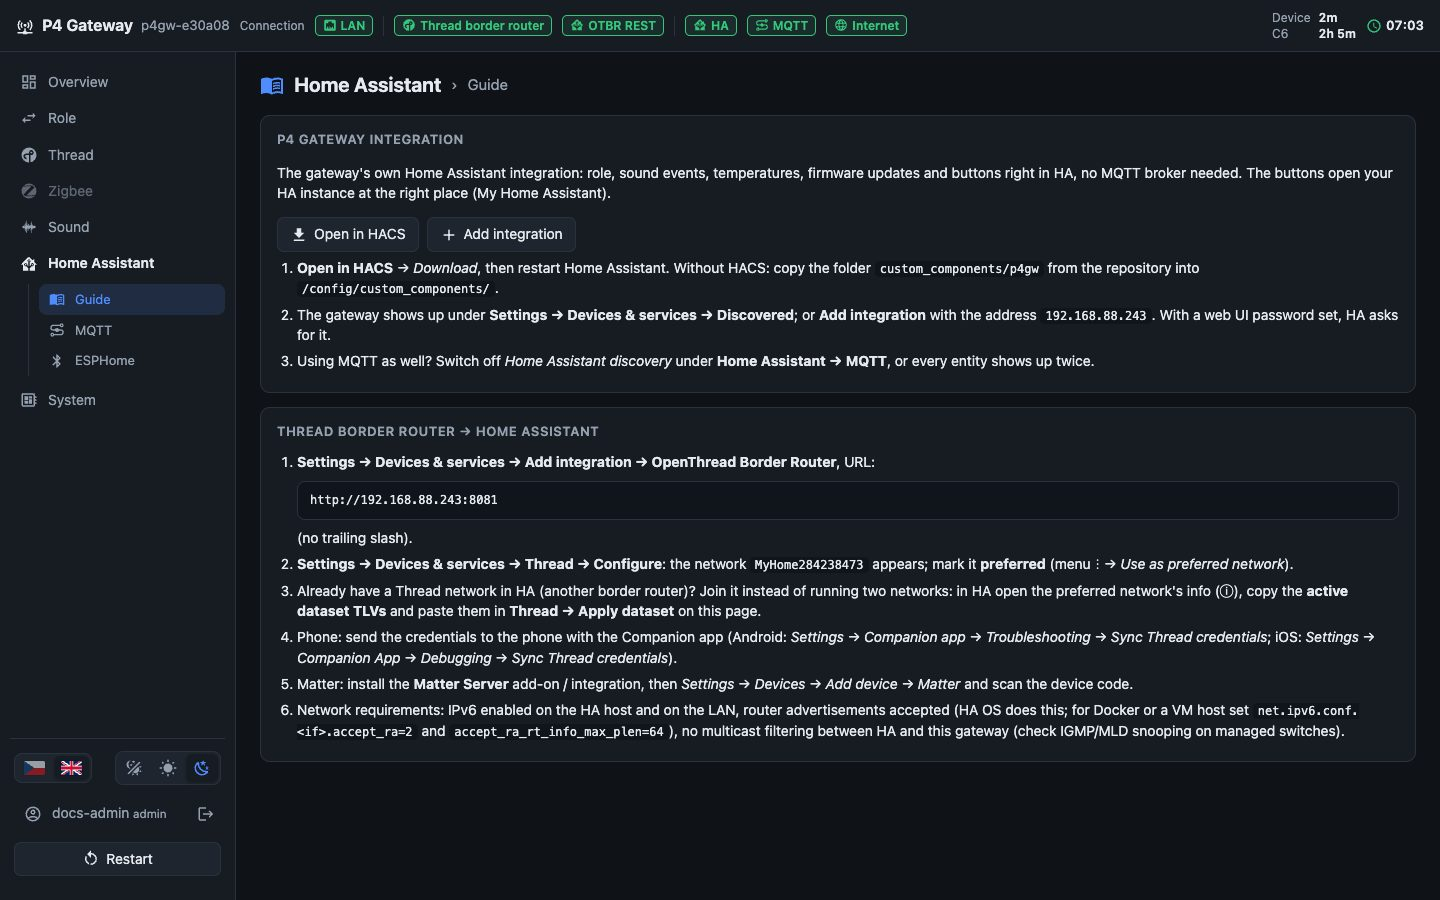
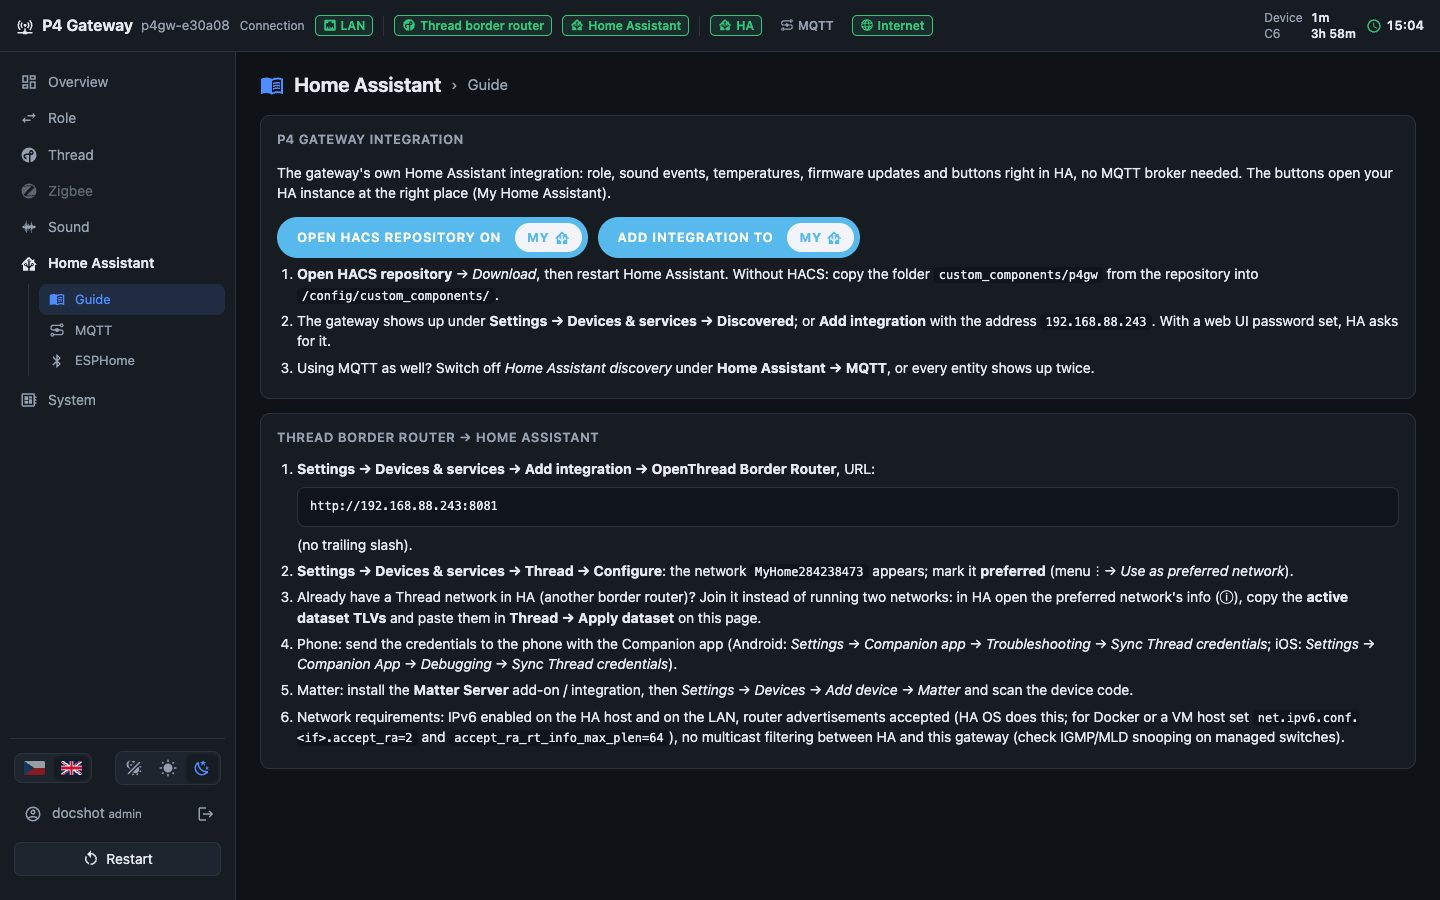
Web UI: HACS and Add integration buttons as My Home Assistant badges
shoot.mjs: P4GW_ROUTES shoots only the listed pages.

diff --git a/documentation/cs/index.html b/documentation/cs/index.html
@@ -129,7 +129,7 @@
 <div class="item"><div class="item-text"><h4>Naučené zvuky</h4><p>Profily se vzorky, prahem a testem.</p></div><div class="item-pic"><a href="../screenshots/sound_learn__3.jpg" class="zoom"><img class="shot" src="../screenshots/sound_learn__3.jpg" alt="LEARNED SOUNDS" width="1156" height="110" loading="lazy"></a></div></div>
 <details><summary>Celá stránka (1)</summary><div class="fulls"><figure><a href="../screenshots/sound_learn.jpg" class="zoom"><img class="shot full" src="../screenshots/sound_learn.jpg" alt="Zvuk › Naučené zvuky" width="1440" height="900" loading="lazy"></a><figcaption>Celá stránka</figcaption></figure></div></details>
 </section><section class="card wide" id="ha-guide"><h3><svg class="mdi" viewBox="0 0 24 24" aria-hidden="true"><path d="M12 21.5C10.65 20.65 8.2 20 6.5 20C4.85 20 3.15 20.3 1.75 21.05C1.65 21.1 1.6 21.1 1.5 21.1C1.25 21.1 1 20.85 1 20.6V6C1.6 5.55 2.25 5.25 3 5C4.11 4.65 5.33 4.5 6.5 4.5C8.45 4.5 10.55 4.9 12 6C13.45 4.9 15.55 4.5 17.5 4.5C18.67 4.5 19.89 4.65 21 5C21.75 5.25 22.4 5.55 23 6V20.6C23 20.85 22.75 21.1 22.5 21.1C22.4 21.1 22.35 21.1 22.25 21.05C20.85 20.3 19.15 20 17.5 20C15.8 20 13.35 20.65 12 21.5M12 8V19.5C13.35 18.65 15.8 18 17.5 18C18.7 18 19.9 18.15 21 18.5V7C19.9 6.65 18.7 6.5 17.5 6.5C15.8 6.5 13.35 7.15 12 8M13 11.5C14.11 10.82 15.6 10.5 17.5 10.5C18.41 10.5 19.26 10.59 20 10.78V9.23C19.13 9.08 18.29 9 17.5 9C15.73 9 14.23 9.28 13 9.84V11.5M17.5 11.67C15.79 11.67 14.29 11.93 13 12.46V14.15C14.11 13.5 15.6 13.16 17.5 13.16C18.54 13.16 19.38 13.24 20 13.4V11.9C19.13 11.74 18.29 11.67 17.5 11.67M20 14.57C19.13 14.41 18.29 14.33 17.5 14.33C15.67 14.33 14.17 14.6 13 15.13V16.82C14.11 16.16 15.6 15.83 17.5 15.83C18.54 15.83 19.38 15.91 20 16.07V14.57Z"/></svg><span>Home Assistant › Návod</span></h3><p>Postup pro Home Assistant se současnou adresou brány; tlačítka na jedno kliknutí pro integraci.</p>
-<div class="item"><div class="item-text"><h4>Integrace P4 Gateway</h4><p>Otevřít v HACS, spustit nastavení.</p></div><div class="item-pic"><a href="../screenshots/ha_guide__1.jpg" class="zoom"><img class="shot" src="../screenshots/ha_guide__1.jpg" alt="P4 GATEWAY INTEGRATION" width="1156" height="278" loading="lazy"></a></div></div>
+<div class="item"><div class="item-text"><h4>Integrace P4 Gateway</h4><p>Otevřít repozitář HACS, přidat integraci (tlačítka My Home Assistant).</p></div><div class="item-pic"><a href="../screenshots/ha_guide__1.jpg" class="zoom"><img class="shot" src="../screenshots/ha_guide__1.jpg" alt="P4 GATEWAY INTEGRATION" width="1156" height="285" loading="lazy"></a></div></div>
 <div class="item"><div class="item-text"><h4>Thread border router → Home Assistant</h4><p>URL integrace OTBR, kroky pro Thread a Matter.</p></div><div class="item-pic"><a href="../screenshots/ha_guide__2.jpg" class="zoom"><img class="shot" src="../screenshots/ha_guide__2.jpg" alt="THREAD BORDER ROUTER → HOME ASSISTANT" width="1156" height="356" loading="lazy"></a></div></div>
 <div class="item"><div class="item-text"><h4>Zigbee koordinátor → Zigbee2MQTT (doporučeno)</h4><p>Konfigurace Zigbee2MQTT.</p></div><div class="item-pic"><a href="../screenshots/ha_guide__zigbee__2.jpg" class="zoom"><img class="shot" src="../screenshots/ha_guide__zigbee__2.jpg" alt="ZIGBEE COORDINATOR → ZIGBEE2MQTT (RECOMMENDED)" width="1156" height="364" loading="lazy"></a><div class="cap">v roli Zigbee koordinátor</div></div></div>
 <details><summary>Celá stránka (2)</summary><div class="fulls"><figure><a href="../screenshots/ha_guide.jpg" class="zoom"><img class="shot full" src="../screenshots/ha_guide.jpg" alt="Home Assistant › Návod" width="1440" height="900" loading="lazy"></a><figcaption>Celá stránka</figcaption></figure><figure><a href="../screenshots/ha_guide__zigbee.jpg" class="zoom"><img class="shot full" src="../screenshots/ha_guide__zigbee.jpg" alt="Home Assistant › Návod" width="1440" height="900" loading="lazy"></a><figcaption>Celá stránka · v roli Zigbee koordinátor</figcaption></figure></div></details>
@@ -227,7 +227,7 @@
 <details><summary>Celá stránka (1)</summary><div class="fulls"><figure><a href="../screenshots/profile.jpg" class="zoom"><img class="shot full" src="../screenshots/profile.jpg" alt="Můj účet" width="1440" height="900" loading="lazy"></a><figcaption>Celá stránka</figcaption></figure></div></details>
 </section>
 <section class="card wide" id="ha"><h3><svg class="mdi" viewBox="0 0 24 24" aria-hidden="true"><path d="M21.8,13H20V21H13V17.67L15.79,14.88L16.5,15C17.66,15 18.6,14.06 18.6,12.9C18.6,11.74 17.66,10.8 16.5,10.8A2.1,2.1 0 0,0 14.4,12.9L14.5,13.61L13,15.13V9.65C13.66,9.29 14.1,8.6 14.1,7.8A2.1,2.1 0 0,0 12,5.7A2.1,2.1 0 0,0 9.9,7.8C9.9,8.6 10.34,9.29 11,9.65V15.13L9.5,13.61L9.6,12.9A2.1,2.1 0 0,0 7.5,10.8A2.1,2.1 0 0,0 5.4,12.9A2.1,2.1 0 0,0 7.5,15L8.21,14.88L11,17.67V21H4V13H2.25C1.83,13 1.42,13 1.42,12.79C1.43,12.57 1.85,12.15 2.28,11.72L11,3C11.33,2.67 11.67,2.33 12,2.33C12.33,2.33 12.67,2.67 13,3L17,7V6H19V9L21.78,11.78C22.18,12.18 22.59,12.59 22.6,12.8C22.6,13 22.2,13 21.8,13M7.5,12A0.9,0.9 0 0,1 8.4,12.9A0.9,0.9 0 0,1 7.5,13.8A0.9,0.9 0 0,1 6.6,12.9A0.9,0.9 0 0,1 7.5,12M16.5,12C17,12 17.4,12.4 17.4,12.9C17.4,13.4 17,13.8 16.5,13.8A0.9,0.9 0 0,1 15.6,12.9A0.9,0.9 0 0,1 16.5,12M12,6.9C12.5,6.9 12.9,7.3 12.9,7.8C12.9,8.3 12.5,8.7 12,8.7C11.5,8.7 11.1,8.3 11.1,7.8C11.1,7.3 11.5,6.9 12,6.9Z"/></svg><span>Home Assistant</span></h3><h3>Integrace P4 Gateway</h3>
-    <ol><li>Instalace: <b>Otevřít v HACS</b> (Home Assistant › Návod) nebo zkopírujte <code>custom_components/p4gw</code> do <code>/config/custom_components/</code>; restartujte Home Assistant.</li>
+    <ol><li>Instalace: <b>Otevřít repozitář HACS</b> (Home Assistant › Návod) nebo zkopírujte <code>custom_components/p4gw</code> do <code>/config/custom_components/</code>; restartujte Home Assistant.</li>
     <li>Brána se objeví v Nastavení › Zařízení a služby › <b>Objeveno</b> (mDNS <code>_p4gw._tcp</code>), nebo ji přidejte: Přidat integraci › P4 Gateway › adresa.</li>
     <li>Když má brána uživatelské účty, integrace chce <b>API token</b>: vytvořte ho v Systém › Správa uživatelů › API tokeny (role správce, nebo uživatel, když integrace nemá restartovat ani aktualizovat) a vložte ho. Token nezávisí na žádném uživateli ani jeho 2FA.</li>
     <li><b>Konfigurovat</b> (volby integrace): pro každé téma, od jaké úrovně se zobrazí trvalé oznámení (vypnuto, jen kritické, varování a kritické, vše).</li></ol>

diff --git a/documentation/en/index.html b/documentation/en/index.html
@@ -129,7 +129,7 @@
 <div class="item"><div class="item-text"><h4>Learned sounds</h4><p>Profiles with samples, threshold and test.</p></div><div class="item-pic"><a href="../screenshots/sound_learn__3.jpg" class="zoom"><img class="shot" src="../screenshots/sound_learn__3.jpg" alt="LEARNED SOUNDS" width="1156" height="110" loading="lazy"></a></div></div>
 <details><summary>Whole page (1)</summary><div class="fulls"><figure><a href="../screenshots/sound_learn.jpg" class="zoom"><img class="shot full" src="../screenshots/sound_learn.jpg" alt="Sound › Learned sounds" width="1440" height="900" loading="lazy"></a><figcaption>Whole page</figcaption></figure></div></details>
 </section><section class="card wide" id="ha-guide"><h3><svg class="mdi" viewBox="0 0 24 24" aria-hidden="true"><path d="M12 21.5C10.65 20.65 8.2 20 6.5 20C4.85 20 3.15 20.3 1.75 21.05C1.65 21.1 1.6 21.1 1.5 21.1C1.25 21.1 1 20.85 1 20.6V6C1.6 5.55 2.25 5.25 3 5C4.11 4.65 5.33 4.5 6.5 4.5C8.45 4.5 10.55 4.9 12 6C13.45 4.9 15.55 4.5 17.5 4.5C18.67 4.5 19.89 4.65 21 5C21.75 5.25 22.4 5.55 23 6V20.6C23 20.85 22.75 21.1 22.5 21.1C22.4 21.1 22.35 21.1 22.25 21.05C20.85 20.3 19.15 20 17.5 20C15.8 20 13.35 20.65 12 21.5M12 8V19.5C13.35 18.65 15.8 18 17.5 18C18.7 18 19.9 18.15 21 18.5V7C19.9 6.65 18.7 6.5 17.5 6.5C15.8 6.5 13.35 7.15 12 8M13 11.5C14.11 10.82 15.6 10.5 17.5 10.5C18.41 10.5 19.26 10.59 20 10.78V9.23C19.13 9.08 18.29 9 17.5 9C15.73 9 14.23 9.28 13 9.84V11.5M17.5 11.67C15.79 11.67 14.29 11.93 13 12.46V14.15C14.11 13.5 15.6 13.16 17.5 13.16C18.54 13.16 19.38 13.24 20 13.4V11.9C19.13 11.74 18.29 11.67 17.5 11.67M20 14.57C19.13 14.41 18.29 14.33 17.5 14.33C15.67 14.33 14.17 14.6 13 15.13V16.82C14.11 16.16 15.6 15.83 17.5 15.83C18.54 15.83 19.38 15.91 20 16.07V14.57Z"/></svg><span>Home Assistant › Guide</span></h3><p>Steps for Home Assistant with the current address of the gateway; one-click buttons for the integration.</p>
-<div class="item"><div class="item-text"><h4>P4 Gateway integration</h4><p>Open in HACS, start the setup.</p></div><div class="item-pic"><a href="../screenshots/ha_guide__1.jpg" class="zoom"><img class="shot" src="../screenshots/ha_guide__1.jpg" alt="P4 GATEWAY INTEGRATION" width="1156" height="278" loading="lazy"></a></div></div>
+<div class="item"><div class="item-text"><h4>P4 Gateway integration</h4><p>Open the HACS repository, add the integration (My Home Assistant buttons).</p></div><div class="item-pic"><a href="../screenshots/ha_guide__1.jpg" class="zoom"><img class="shot" src="../screenshots/ha_guide__1.jpg" alt="P4 GATEWAY INTEGRATION" width="1156" height="285" loading="lazy"></a></div></div>
 <div class="item"><div class="item-text"><h4>Thread border router → Home Assistant</h4><p>OTBR integration URL, Thread and Matter steps.</p></div><div class="item-pic"><a href="../screenshots/ha_guide__2.jpg" class="zoom"><img class="shot" src="../screenshots/ha_guide__2.jpg" alt="THREAD BORDER ROUTER → HOME ASSISTANT" width="1156" height="356" loading="lazy"></a></div></div>
 <div class="item"><div class="item-text"><h4>Zigbee coordinator → Zigbee2MQTT (recommended)</h4><p>Zigbee2MQTT configuration.</p></div><div class="item-pic"><a href="../screenshots/ha_guide__zigbee__2.jpg" class="zoom"><img class="shot" src="../screenshots/ha_guide__zigbee__2.jpg" alt="ZIGBEE COORDINATOR → ZIGBEE2MQTT (RECOMMENDED)" width="1156" height="364" loading="lazy"></a><div class="cap">in the Zigbee coordinator role</div></div></div>
 <details><summary>Whole page (2)</summary><div class="fulls"><figure><a href="../screenshots/ha_guide.jpg" class="zoom"><img class="shot full" src="../screenshots/ha_guide.jpg" alt="Home Assistant › Guide" width="1440" height="900" loading="lazy"></a><figcaption>Whole page</figcaption></figure><figure><a href="../screenshots/ha_guide__zigbee.jpg" class="zoom"><img class="shot full" src="../screenshots/ha_guide__zigbee.jpg" alt="Home Assistant › Guide" width="1440" height="900" loading="lazy"></a><figcaption>Whole page · in the Zigbee coordinator role</figcaption></figure></div></details>
@@ -227,7 +227,7 @@
 <details><summary>Whole page (1)</summary><div class="fulls"><figure><a href="../screenshots/profile.jpg" class="zoom"><img class="shot full" src="../screenshots/profile.jpg" alt="My account" width="1440" height="900" loading="lazy"></a><figcaption>Whole page</figcaption></figure></div></details>
 </section>
 <section class="card wide" id="ha"><h3><svg class="mdi" viewBox="0 0 24 24" aria-hidden="true"><path d="M21.8,13H20V21H13V17.67L15.79,14.88L16.5,15C17.66,15 18.6,14.06 18.6,12.9C18.6,11.74 17.66,10.8 16.5,10.8A2.1,2.1 0 0,0 14.4,12.9L14.5,13.61L13,15.13V9.65C13.66,9.29 14.1,8.6 14.1,7.8A2.1,2.1 0 0,0 12,5.7A2.1,2.1 0 0,0 9.9,7.8C9.9,8.6 10.34,9.29 11,9.65V15.13L9.5,13.61L9.6,12.9A2.1,2.1 0 0,0 7.5,10.8A2.1,2.1 0 0,0 5.4,12.9A2.1,2.1 0 0,0 7.5,15L8.21,14.88L11,17.67V21H4V13H2.25C1.83,13 1.42,13 1.42,12.79C1.43,12.57 1.85,12.15 2.28,11.72L11,3C11.33,2.67 11.67,2.33 12,2.33C12.33,2.33 12.67,2.67 13,3L17,7V6H19V9L21.78,11.78C22.18,12.18 22.59,12.59 22.6,12.8C22.6,13 22.2,13 21.8,13M7.5,12A0.9,0.9 0 0,1 8.4,12.9A0.9,0.9 0 0,1 7.5,13.8A0.9,0.9 0 0,1 6.6,12.9A0.9,0.9 0 0,1 7.5,12M16.5,12C17,12 17.4,12.4 17.4,12.9C17.4,13.4 17,13.8 16.5,13.8A0.9,0.9 0 0,1 15.6,12.9A0.9,0.9 0 0,1 16.5,12M12,6.9C12.5,6.9 12.9,7.3 12.9,7.8C12.9,8.3 12.5,8.7 12,8.7C11.5,8.7 11.1,8.3 11.1,7.8C11.1,7.3 11.5,6.9 12,6.9Z"/></svg><span>Home Assistant</span></h3><h3>P4 Gateway integration</h3>
-    <ol><li>Install: <b>Open in HACS</b> (Home Assistant › Guide) or copy <code>custom_components/p4gw</code> to <code>/config/custom_components/</code>; restart Home Assistant.</li>
+    <ol><li>Install: <b>Open HACS repository</b> (Home Assistant › Guide) or copy <code>custom_components/p4gw</code> to <code>/config/custom_components/</code>; restart Home Assistant.</li>
     <li>The gateway appears under Settings › Devices & services › <b>Discovered</b> (mDNS <code>_p4gw._tcp</code>), or add it: Add integration › P4 Gateway › address.</li>
     <li>With user accounts on the gateway it asks for an <b>API token</b>: create one under System › User management › API tokens (role admin, or user when the integration should not restart or update) and paste it. The token does not depend on any user or their 2FA.</li>
     <li><b>Configure</b> (integration options): per topic from which level a persistent notification appears (off, critical only, warnings and critical, all).</li></ol>

diff --git a/firmware/gateway/web/index.html b/firmware/gateway/web/index.html
@@ -183,6 +183,12 @@ pre, code { font-family: ui-monospace, SFMono-Regular, Menlo, monospace; font-si
 pre { background: var(--code); border: 1px solid var(--border); border-radius: 8px; padding: 10px 12px;
   overflow: auto; margin: 8px 0; white-space: pre-wrap; overflow-wrap: anywhere; }
 code { background: var(--code); padding: 1px 5px; border-radius: 4px; }
+/* buttons in the style of the My Home Assistant badges */
+.my-badge { display: inline-flex; align-items: center; gap: 14px; padding: 6px 6px 6px 20px; border-radius: 999px; background: #58b9ed;
+  color: #fff; font-weight: 600; font-size: 13px; letter-spacing: .06em; text-transform: uppercase; text-decoration: none; }
+.my-badge:hover { filter: brightness(1.08); }
+.my-badge .my { display: inline-flex; align-items: center; gap: 4px; padding: 5px 12px; border-radius: 999px; background: #f2f4f9; color: #58b9ed; font-weight: 700; }
+.my-badge .my svg { width: 16px; height: 16px; }
 .rel { border-top: 1px solid var(--border); }
 .rel:last-of-type { border-bottom: 1px solid var(--border); }
 .rel > summary { display: grid; grid-template-columns: 12px 210px 100px 240px 1fr; align-items: center; gap: 6px 12px; padding: 8px 4px; cursor: pointer; list-style: none; }
@@ -1795,17 +1801,18 @@ const P4GW_HACS = 'https://my.home-assistant.io/redirect/hacs_repository/?owner=
 const P4GW_ADD = 'https://my.home-assistant.io/redirect/config_flow_start/?domain=p4gw';
 function haIntegration() {
   const host = esc(ip()), cs = lang === 'cs';
-  const links = `<div class="row">
-    <a class="btn primary" href="${P4GW_HACS}" target="_blank" rel="noopener">${ic('download')}${cs ? 'Otevřít v HACS' : 'Open in HACS'}</a>
-    <a class="btn" href="${P4GW_ADD}" target="_blank" rel="noopener">${ic('plus')}${cs ? 'Přidat integraci' : 'Add integration'}</a></div>`;
+  const my = `<span class="my">MY${ic('home-assistant')}</span>`;
+  const links = `<div class="row" style="gap:10px">
+    <a class="my-badge" href="${P4GW_HACS}" target="_blank" rel="noopener">${cs ? 'Otevřít repozitář HACS v' : 'Open HACS repository on'}${my}</a>
+    <a class="my-badge" href="${P4GW_ADD}" target="_blank" rel="noopener">${cs ? 'Přidat integraci do' : 'Add integration to'}${my}</a></div>`;
   return cs ? `<h3>Integrace P4 Gateway</h3>
     <p>Vlastní integrace brány pro Home Assistant: role, zvukové události, teploty, aktualizace firmwaru a tlačítka přímo v HA, bez MQTT brokeru. Tlačítka otevřou vaši instanci HA na správném místě (My Home Assistant).</p>${links}<ol class="steps">
-    <li><b>Otevřít v HACS</b> → <i>Stáhnout</i>, pak restartujte Home Assistant. Bez HACS: zkopírujte složku <code>custom_components/p4gw</code> z repozitáře do <code>/config/custom_components/</code>.</li>
+    <li><b>Otevřít repozitář HACS</b> → <i>Stáhnout</i>, pak restartujte Home Assistant. Bez HACS: zkopírujte složku <code>custom_components/p4gw</code> z repozitáře do <code>/config/custom_components/</code>.</li>
     <li>Brána se sama objeví v <b>Nastavení → Zařízení a služby → Objeveno</b>; nebo <b>Přidat integraci</b> a adresa <code>${host}</code>. Je-li nastavené heslo webového rozhraní, HA se na něj zeptá.</li>
     <li>Používáte i MQTT? Vypněte v <b>Home Assistant → MQTT</b> volbu <i>Home Assistant discovery</i>, jinak budou entity v HA dvakrát.</li></ol>`
   : `<h3>P4 Gateway integration</h3>
     <p>The gateway's own Home Assistant integration: role, sound events, temperatures, firmware updates and buttons right in HA, no MQTT broker needed. The buttons open your HA instance at the right place (My Home Assistant).</p>${links}<ol class="steps">
-    <li><b>Open in HACS</b> → <i>Download</i>, then restart Home Assistant. Without HACS: copy the folder <code>custom_components/p4gw</code> from the repository into <code>/config/custom_components/</code>.</li>
+    <li><b>Open HACS repository</b> → <i>Download</i>, then restart Home Assistant. Without HACS: copy the folder <code>custom_components/p4gw</code> from the repository into <code>/config/custom_components/</code>.</li>
     <li>The gateway shows up under <b>Settings → Devices &amp; services → Discovered</b>; or <b>Add integration</b> with the address <code>${host}</code>. With a web UI password set, HA asks for it.</li>
     <li>Using MQTT as well? Switch off <i>Home Assistant discovery</i> under <b>Home Assistant → MQTT</b>, or every entity shows up twice.</li></ol>`;
 }

diff --git a/tools/docs/build_docs.py b/tools/docs/build_docs.py
@@ -273,7 +273,7 @@ PAGES = [
     ("ha/guide", "book-open-variant", T("Home Assistant › Guide", "Home Assistant › Návod"),
      T("Steps for Home Assistant with the current address of the gateway; one-click buttons for the integration.",
        "Postup pro Home Assistant se současnou adresou brány; tlačítka na jedno kliknutí pro integraci."),
-     {"P4 GATEWAY INTEGRATION": T("Open in HACS, start the setup.", "Otevřít v HACS, spustit nastavení."),
+     {"P4 GATEWAY INTEGRATION": T("Open the HACS repository, add the integration (My Home Assistant buttons).", "Otevřít repozitář HACS, přidat integraci (tlačítka My Home Assistant)."),
       "THREAD BORDER ROUTER → HOME ASSISTANT": T("OTBR integration URL, Thread and Matter steps.", "URL integrace OTBR, kroky pro Thread a Matter."),
       "ZIGBEE COORDINATOR → ZIGBEE2MQTT (RECOMMENDED)": T("Zigbee2MQTT configuration.", "Konfigurace Zigbee2MQTT.")},
      None, ["ha_guide", "ha_guide__zigbee"]),
@@ -413,7 +413,7 @@ PAGES = [
 
 HA = T(
     """<h3>P4 Gateway integration</h3>
-    <ol><li>Install: <b>Open in HACS</b> (Home Assistant › Guide) or copy <code>custom_components/p4gw</code> to <code>/config/custom_components/</code>; restart Home Assistant.</li>
+    <ol><li>Install: <b>Open HACS repository</b> (Home Assistant › Guide) or copy <code>custom_components/p4gw</code> to <code>/config/custom_components/</code>; restart Home Assistant.</li>
     <li>The gateway appears under Settings › Devices & services › <b>Discovered</b> (mDNS <code>_p4gw._tcp</code>), or add it: Add integration › P4 Gateway › address.</li>
     <li>With user accounts on the gateway it asks for an <b>API token</b>: create one under System › User management › API tokens (role admin, or user when the integration should not restart or update) and paste it. The token does not depend on any user or their 2FA.</li>
     <li><b>Configure</b> (integration options): per topic from which level a persistent notification appears (off, critical only, warnings and critical, all).</li></ol>
@@ -434,7 +434,7 @@ advanced:
     <h3>ESPHome BLE proxy</h3>
     <p>Role › ESPHome BLE proxy; Home Assistant discovers the ESPHome node, enter its API key. Back with the <i>Gateway role</i> select and <i>Return to gateway</i>.</p>""",
     """<h3>Integrace P4 Gateway</h3>
-    <ol><li>Instalace: <b>Otevřít v HACS</b> (Home Assistant › Návod) nebo zkopírujte <code>custom_components/p4gw</code> do <code>/config/custom_components/</code>; restartujte Home Assistant.</li>
+    <ol><li>Instalace: <b>Otevřít repozitář HACS</b> (Home Assistant › Návod) nebo zkopírujte <code>custom_components/p4gw</code> do <code>/config/custom_components/</code>; restartujte Home Assistant.</li>
     <li>Brána se objeví v Nastavení › Zařízení a služby › <b>Objeveno</b> (mDNS <code>_p4gw._tcp</code>), nebo ji přidejte: Přidat integraci › P4 Gateway › adresa.</li>
     <li>Když má brána uživatelské účty, integrace chce <b>API token</b>: vytvořte ho v Systém › Správa uživatelů › API tokeny (role správce, nebo uživatel, když integrace nemá restartovat ani aktualizovat) a vložte ho. Token nezávisí na žádném uživateli ani jeho 2FA.</li>
     <li><b>Konfigurovat</b> (volby integrace): pro každé téma, od jaké úrovně se zobrazí trvalé oznámení (vypnuto, jen kritické, varování a kritické, vše).</li></ol>

diff --git a/docs/home-assistant.md b/docs/home-assistant.md
@@ -75,7 +75,7 @@ Install (once), one click each:
 [![Open your Home Assistant instance and open this repository inside HACS](https://my.home-assistant.io/badges/hacs_repository.svg)](https://my.home-assistant.io/redirect/hacs_repository/?owner=KinDR007&repository=jc-esp32p4-ha-gateway&category=integration)
 [![Open your Home Assistant instance and start setting up the P4 Gateway integration](https://my.home-assistant.io/badges/config_flow_start.svg)](https://my.home-assistant.io/redirect/config_flow_start/?domain=p4gw)
 
-1. **Open in HACS** adds this repository to HACS; *Download*, then restart Home Assistant.
+1. **Open HACS repository on My** adds this repository to HACS; *Download*, then restart Home Assistant.
    Without HACS: copy `custom_components/p4gw` into `/config/custom_components/` (e.g. over the SSH
    add-on). HACS installs only from a public repository.
 2. **Add integration** starts the setup (or use the discovered gateway, below).

diff --git a/CHANGELOG.md b/CHANGELOG.md
@@ -9,6 +9,8 @@
   table: installed, offered, state, install; firmwares of the C6 package expandable; releases for
   this gateway in their own tile, **Reflash** writes the installed release again), *Manual update*
   (uploads of the gateway, C6 package and ESPHome in one tile) and *Settings* (manifest URL).
+- Web UI, Home Assistant › Guide: the HACS and *Add integration* buttons look like the My Home
+  Assistant badges.
 
 ## v1.7 (2026-10-30)
 
